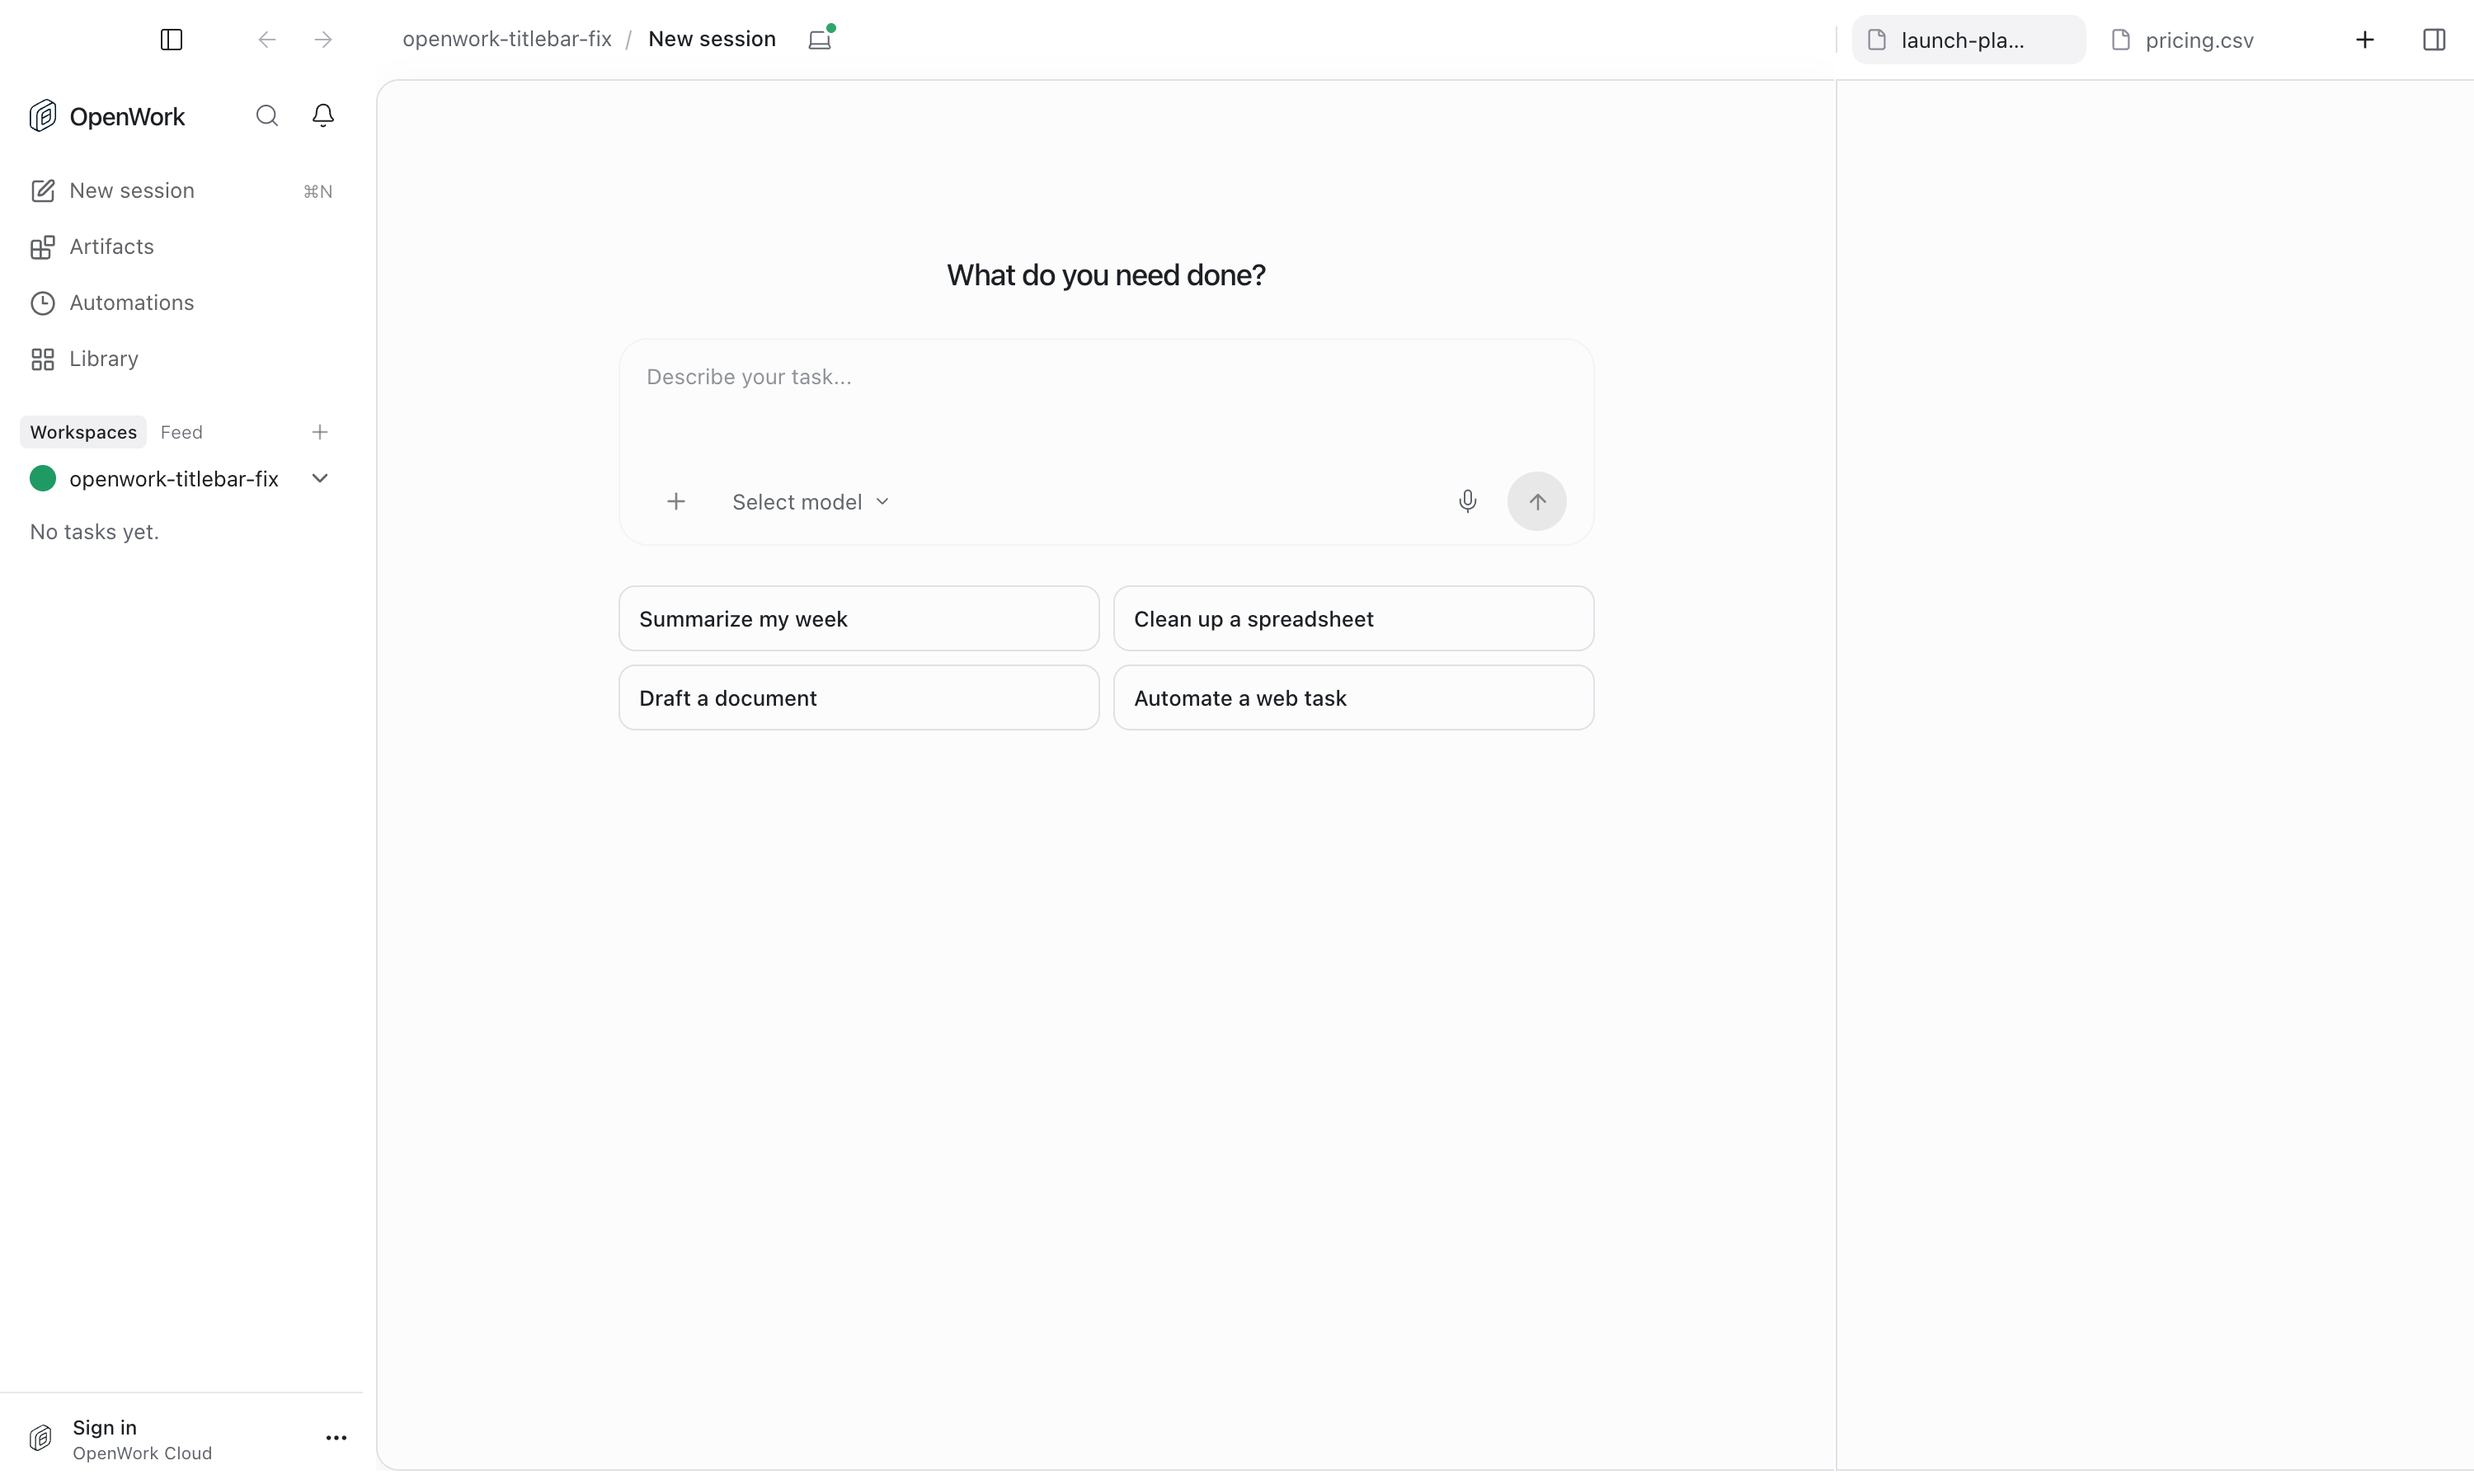
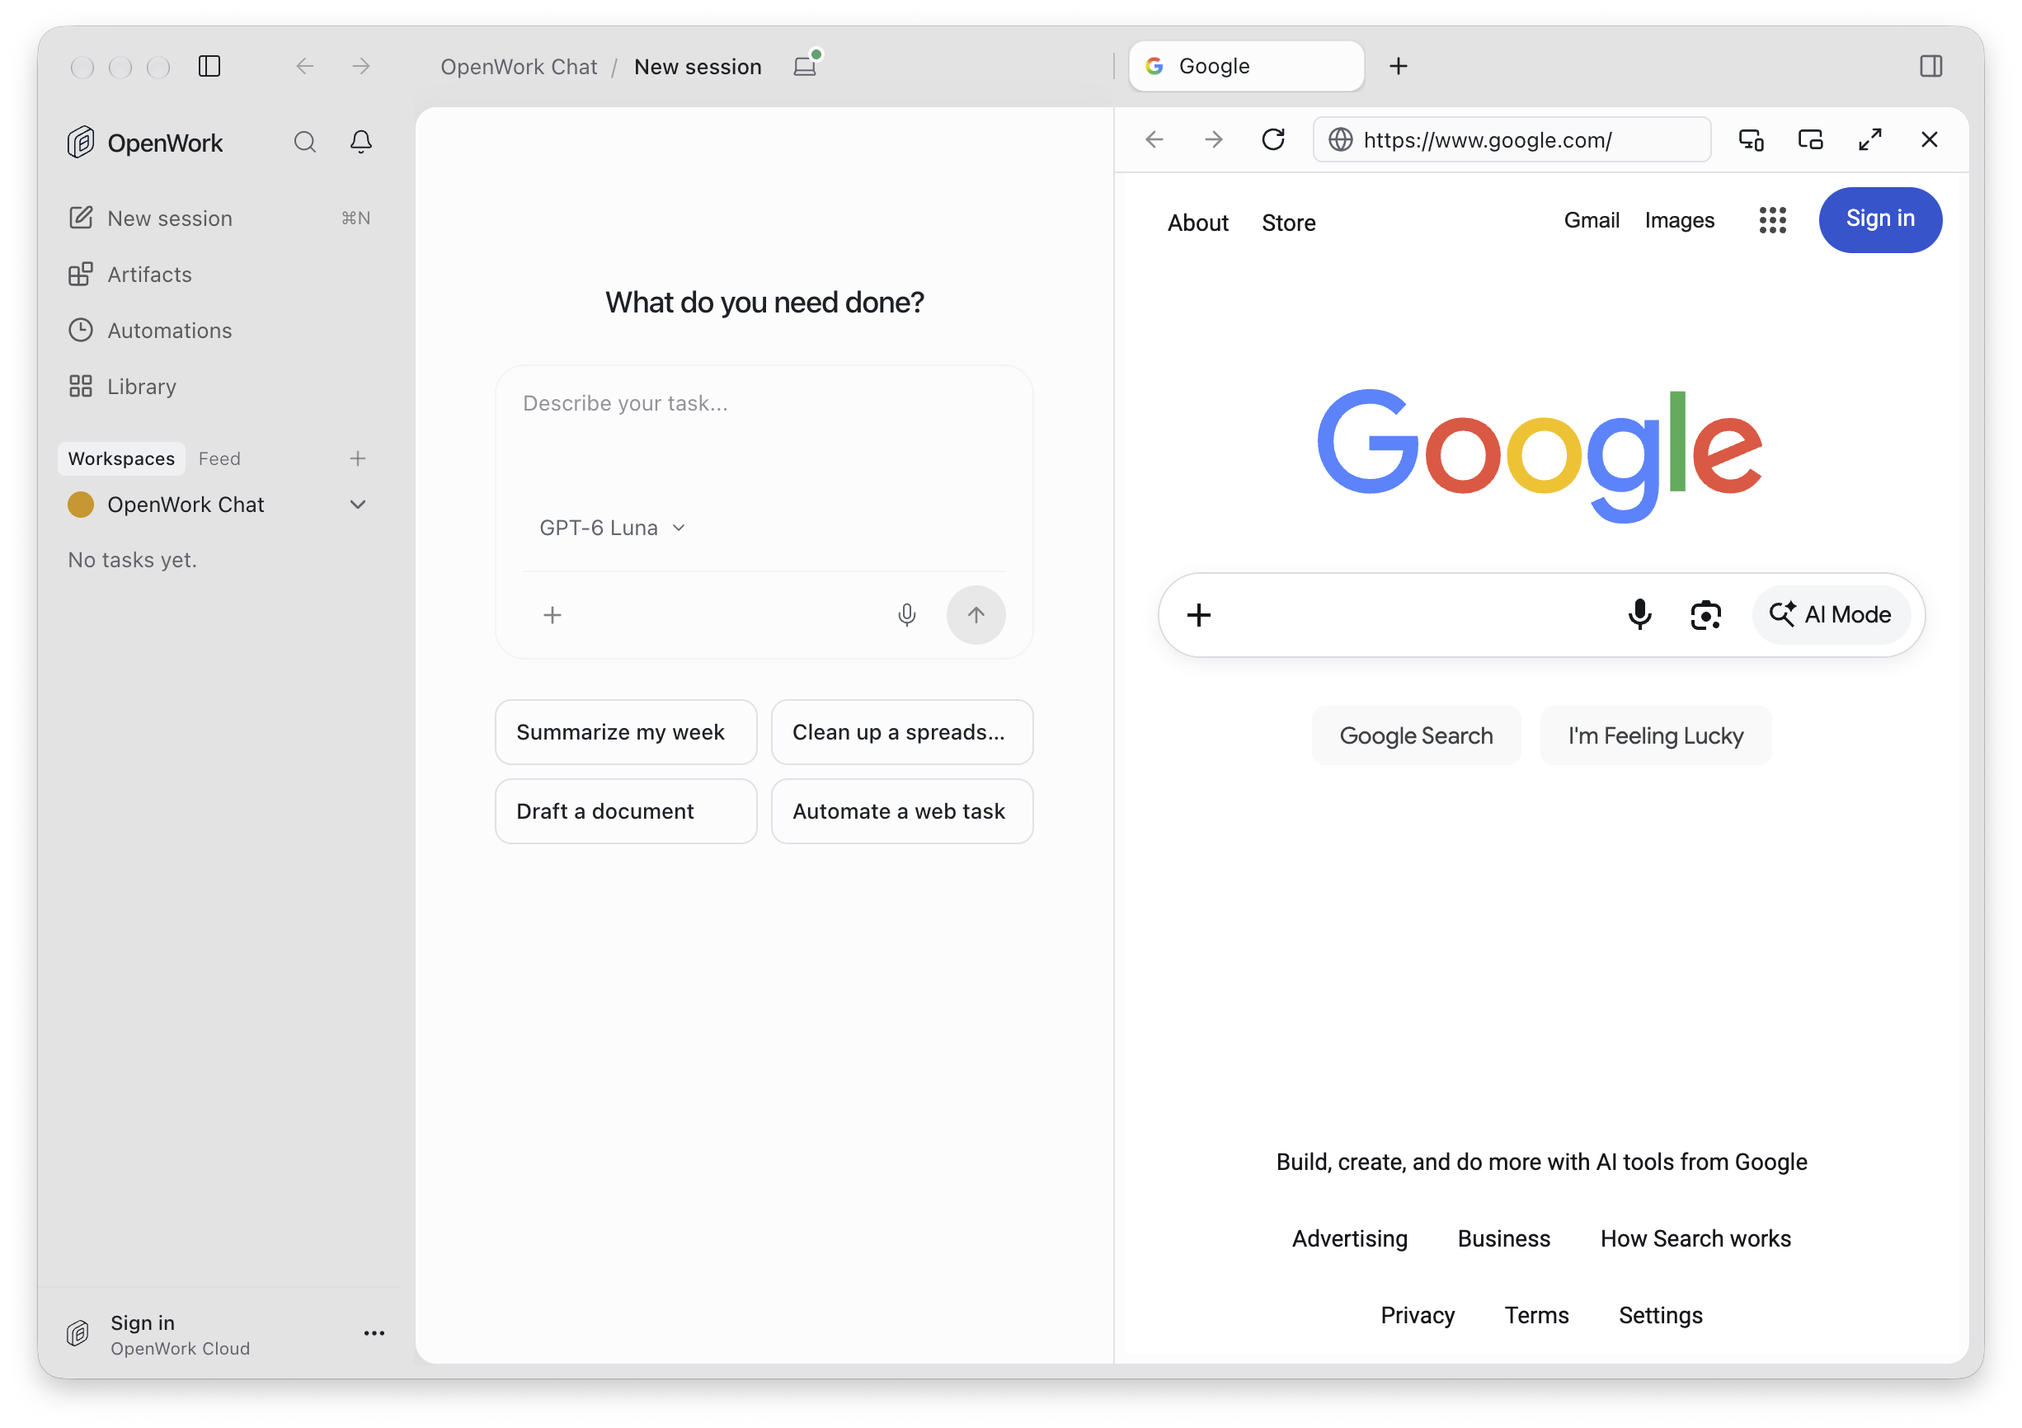
feat(session): one rounded card for chat and panel, tab flows into the browser bar

diff --git a/apps/app/src/react-app/domains/session/panel/side-panel.tsx b/apps/app/src/react-app/domains/session/panel/side-panel.tsx
@@ -399,7 +399,7 @@ export function BrowserPanelContent({
           </Button>
         </div>
       ) : null}
-      <div className="flex h-10 shrink-0 items-center gap-1 border-b border-border bg-background px-2 mac:bg-background/80 mac:backdrop-blur-2xl mac:backdrop-saturate-150">
+      <div data-browser-toolbar className="flex h-10 shrink-0 items-center gap-1 border-b border-border bg-background px-2 mac:bg-background/80 mac:backdrop-blur-2xl mac:backdrop-saturate-150">
         {isAvailable ? (
           <div data-browser-shortcut-tab={tab.id} className="flex min-w-0 flex-1 items-center gap-1">
             <Tooltip>
@@ -588,7 +588,7 @@ export function BrowserPanelContent({
           {tab.loadError.message}
         </div>
       ) : null}
-      <div className="relative min-h-0 flex-1 overflow-hidden">
+      <div data-browser-page className="relative min-h-0 flex-1 overflow-hidden">
         {isAvailable ? (
           <div ref={contentRef} data-browser-shortcut-tab={tab.id} className={`h-full overflow-hidden${tab.agentViewport ? " bg-muted" : ""}`}>
             {blockedSite && !suspended ? (
@@ -824,7 +824,7 @@ export function SidePanel({
   return (
     <TooltipProvider delay={1000}>
       <div
-        className={cn("flex h-full flex-col", titlebar ? "[&>*:not([data-panel-titlebar-row])]:border-y [&>*:not([data-panel-titlebar-row])]:border-l [&>*:not([data-panel-titlebar-row])]:border-border [&>*:not([data-panel-titlebar-row])]:bg-dls-surface" : null)}
+        className="flex h-full flex-col"
         onKeyDownCapture={(event) => {
           if (isBrowserSecretsDialogTarget(event.target)) return;
           if (!handlePanelEscape(event.key, onClose)) return;
@@ -833,8 +833,8 @@ export function SidePanel({
         }}
       >
         {titlebar || !(tabs.length === 1 && (activeTab?.type === "mcp-app" || activeTab?.type === "remote-thread")) ? <div data-panel-titlebar-row={titlebar ? "" : undefined} className={cn("shrink-0", titlebar ? null : "border-b border-border bg-background mac:bg-background/80 mac:backdrop-blur-2xl mac:backdrop-saturate-150")}>
-          <div data-panel-titlebar={titlebar ? "" : undefined} className={cn("flex items-center gap-1", titlebar ? "window-titlebar pe-2 electron:titlebar-drag" : "h-10 border-b border-border/60 px-2")}>
-            {titlebar ? <span data-panel-titlebar-separator aria-hidden="true" className="me-1 h-4 w-px shrink-0 bg-border" /> : null}
+          <div data-panel-titlebar={titlebar ? "" : undefined} className={cn("flex items-center gap-1", titlebar ? "window-titlebar pe-2 electron:titlebar-drag [&_[data-panel-tab-active=true]]:bg-dls-surface [&_[data-panel-tab-active=true]]:shadow-sm" : "h-10 border-b border-border/60 px-2")}>
+            {titlebar ? <span data-panel-titlebar-separator aria-hidden="true" className="me-1 h-4 w-px shrink-0 bg-foreground/20" /> : null}
             <div className={cn("no-scrollbar min-w-0 overflow-x-auto", titlebar ? "titlebar-no-drag" : "flex-1")}>
               <PanelTabList
                 values={tabs.map((tab) => tab.id)}
@@ -895,6 +895,7 @@ export function SidePanel({
             ) : null}
           </div>
         </div> : null}
+        <div data-panel-card={titlebar ? "" : undefined} className={titlebar ? "flex min-h-0 flex-1 flex-col overflow-hidden rounded-r-[14px] border border-border bg-dls-surface [&_[data-browser-toolbar]]:!bg-transparent [&_[data-browser-toolbar]]:!backdrop-filter-none [&_[data-browser-page]]:mx-1.5 [&_[data-browser-page]]:mb-1.5" : "contents"}>
         {!activeTab ? (
           <PanelEmpty
             view={emptyView}
@@ -964,6 +965,7 @@ export function SidePanel({
             />
           </div>
         ) : null}
+        </div>
       </div>
     </TooltipProvider>
   );

diff --git a/apps/app/src/react-app/domains/session/chat/session-page.tsx b/apps/app/src/react-app/domains/session/chat/session-page.tsx
@@ -1488,7 +1488,7 @@ export function SessionPage(props: SessionPageProps) {
           </Button>
         </div>
       ) : null}
-      <div className={cn("flex min-h-0 flex-1 flex-col overflow-y-auto", flatPanes && "border-y border-l border-border bg-dls-surface shadow-[0_8px_24px_rgba(15,23,42,0.06)] dark:shadow-[0_10px_30px_rgba(0,0,0,0.45)]")}>{props.settingsSlot}</div>
+      <div className={cn("flex min-h-0 flex-1 flex-col overflow-y-auto", flatPanes && "rounded-r-[14px] border border-border bg-dls-surface shadow-[0_8px_24px_rgba(15,23,42,0.06)] dark:shadow-[0_10px_30px_rgba(0,0,0,0.45)]")}>{props.settingsSlot}</div>
     </div>
   ) : activeSidePanel === "panel" ? (
     <SidePanel
@@ -1862,7 +1862,7 @@ export function SessionPage(props: SessionPageProps) {
           <FloatingSlotProvider>
           {flatPanes ? null : sessionHeader}
 
-          <div className={cn("flex min-h-0 flex-1 max-lg:p-0", props.primarySurface !== "flat" && "lg:pb-2 lg:pl-2", props.primarySurface !== "flat" && compactChrome && !props.developerMode && !(flatPanes && sidePanelOpen) && "lg:pr-2")}>
+          <div className={cn("flex min-h-0 flex-1 max-lg:p-0", props.primarySurface !== "flat" && "lg:pb-2 lg:pl-2", props.primarySurface !== "flat" && compactChrome && !props.developerMode && "lg:pr-2")}>
           <ResizablePanelGroup
             orientation="horizontal"
             elementRef={panelGroupRef}
@@ -2214,7 +2214,7 @@ export function SessionPage(props: SessionPageProps) {
             </ResizablePanel>
               {sidePanelOpen && !isMobile ? (
               <>
-                <ResizableHandle withHandle aria-label="Resize side panel" className="hidden bg-transparent transition-colors hover:bg-border focus-visible:bg-border lg:flex [&>div]:opacity-0 [&>div]:transition-opacity hover:[&>div]:opacity-100 focus-visible:[&>div]:opacity-100" />
+                <ResizableHandle withHandle aria-label="Resize side panel" className={cn("hidden bg-transparent transition-colors hover:bg-border focus-visible:bg-border lg:flex [&>div]:opacity-0 [&>div]:transition-opacity hover:[&>div]:opacity-100 focus-visible:[&>div]:opacity-100", flatPanes && "lg:w-0")} />
                 <ResizablePanel
                   panelRef={browserPanelRef}
                   defaultSize={`${activeSidePanel === "extensions" ? Math.max(browserPanelDefaultWidth, 480) : browserPanelDefaultWidth}px`}

diff --git a/apps/app/src/components/panel-tabs.tsx b/apps/app/src/components/panel-tabs.tsx
@@ -47,6 +47,7 @@ function PanelTab({ active, className, ...props }: PanelTabProps) {
       type="button"
       variant="ghost"
       size="sm"
+      data-panel-tab-active={active ? "true" : undefined}
       className={cn(
         "w-full min-w-0 justify-start gap-2 px-2 pr-8 text-left text-sm font-normal text-muted-foreground hover:bg-muted hover:text-foreground",
         active && "bg-muted/80 text-foreground",

diff --git a/docs/features/flat-session-panes/README.md b/docs/features/flat-session-panes/README.md
@@ -14,8 +14,11 @@ title bar.
 With the feature on:
 
 - The chat and the side panel share one surface, split by a thin line, with
-  no gap between them. The chat keeps its rounded corners and the side panel
-  runs to the right edge of the window.
+  no gap between them. Together they read as one rounded card, with the same
+  margin around it as today.
+- The selected tab and the built-in browser's address bar share the card's
+  white surface, so the tab leads into the page. The web page sits slightly
+  inside the card so the card's rounded corners stay visible.
 - A short divider in the title bar separates the session title from the side
   panel's tabs.
 - The side panel's tabs sit in the title bar above the panel, and the button
